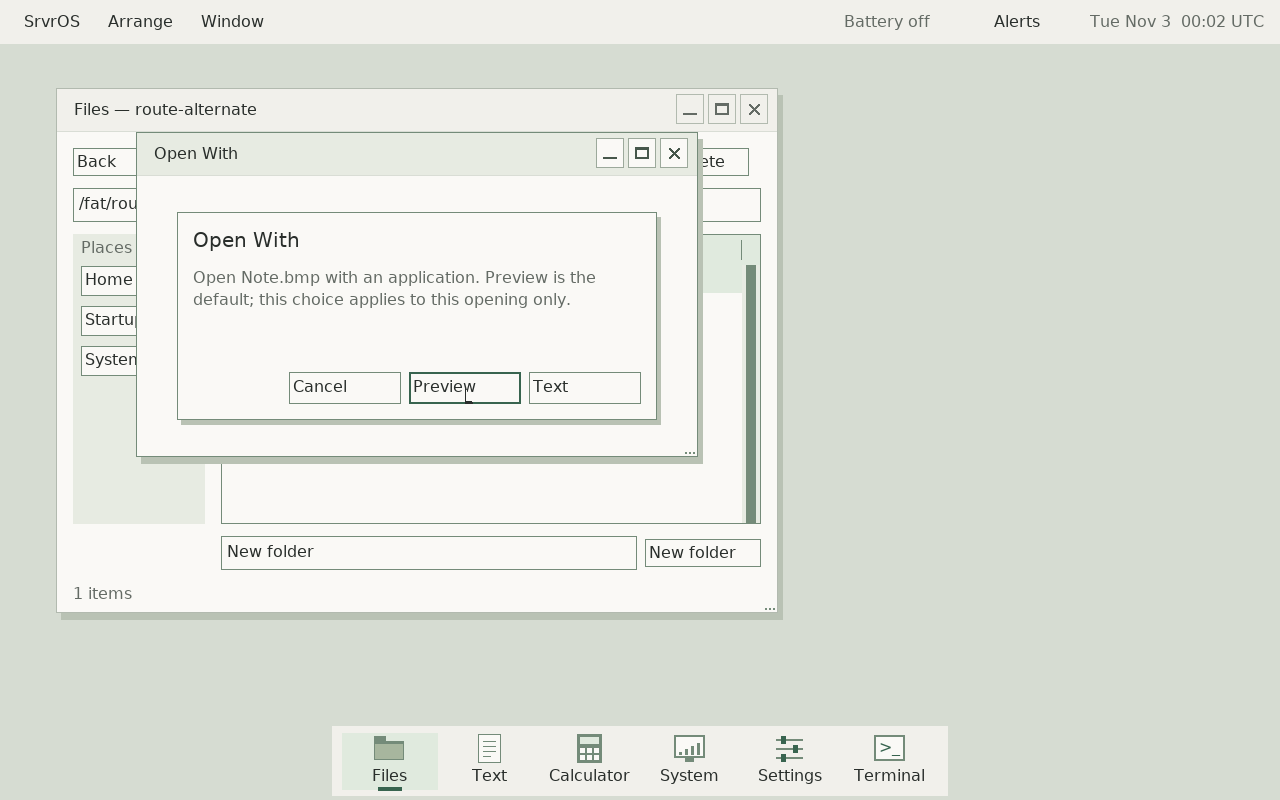
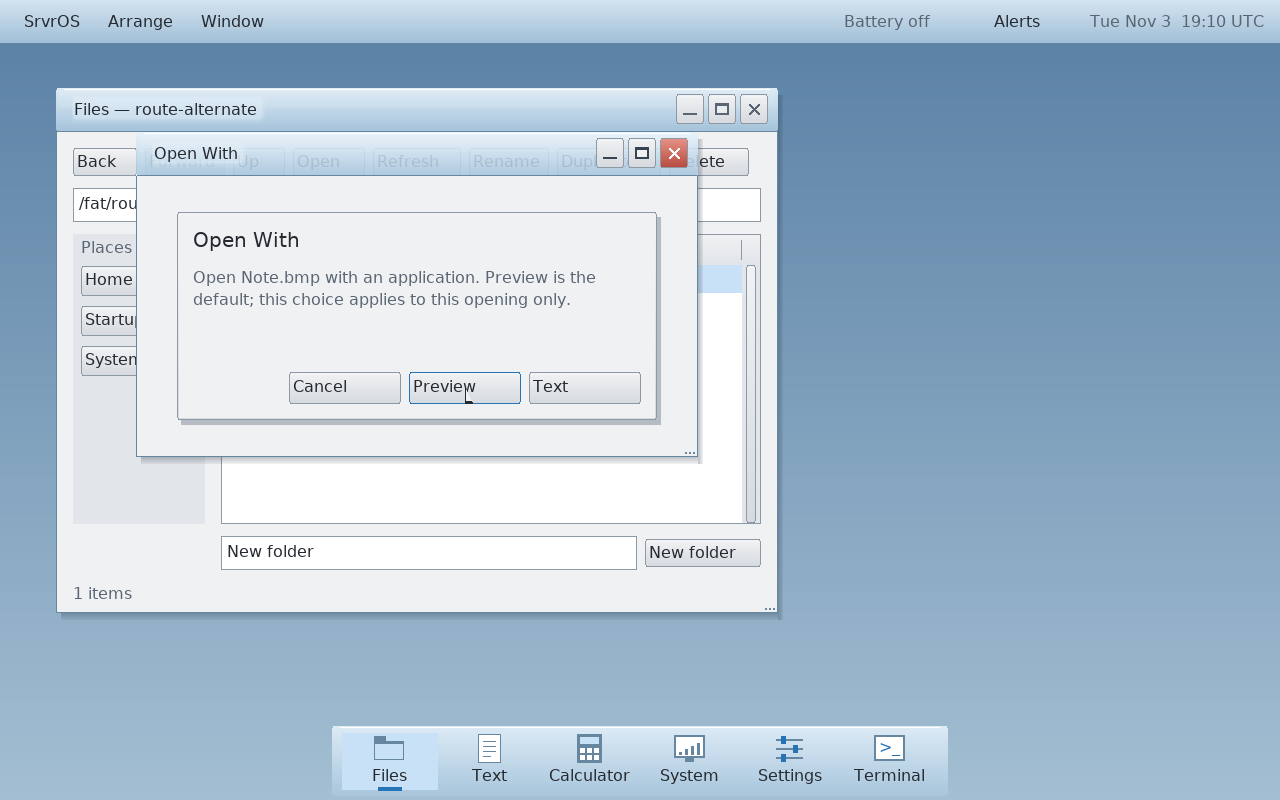
Record modular catch-up validation and refresh chooser screenshot

diff --git a/docs/machines/macbookair7-2.md b/docs/machines/macbookair7-2.md
@@ -1,24 +1,31 @@
 # MacBookAir7,2 / A1466
 
-Updated: 2026-11-02. State: **active reference machine; partial device acceptance**.
+Updated: 2026-11-03. State: **active reference machine; partial device acceptance**.
 
 ### Modular repository catch-up
 
-The user requested updating the local checkout for the submodule extraction.
-Incoming main is `e376669c`, with SrvrUI, SrvrApps and SrvrPorts pinned by the
-OS. PR278 remains open on the pre-extraction layout. Preserve its reviewed
-registry/Open With work by porting app edits into SrvrApps, publishing the app
-commit before its OS gitlink, and retaining root SDK/compositor/tests/docs edits.
-Do not rewrite extraction history or update upstream pins with --remote.
+Merged actual main `e376669c` into the existing device branch as `6880b1f6`.
+SrvrUI is pinned to `89fb6d9`, SrvrPorts to `0494ae2`, and SrvrApps to
+`ff6c8de`. All seven nested upstream pins remain unchanged. Recursive module
+initialization is complete; no dependency follows a remote branch implicitly.
 
-Existing seven upstream working trees were clean and deinitialized normally;
-Git metadata remains cached. Saved patches and archive/air-pre-modular-20261103
-retain the complete prior head. Reconcile path/build/theme conflicts, read each
-new module's applicable rules, initialize exact recursive pins, then run local
-build/core and relevant GUI tests. New main adds themes and QEMU/VirtIO work;
-those do not inherit Mac native acceptance. Installed acceptedc497/recovery9aa
-and staged pre-extractionb9 payload/evidence stay independent. No reboot is armed.
-Evidence/checkpoint: `build/air-modular-catchup-20261103/`.
+The pending registry/Open With changes were ported into extracted SrvrApps,
+preserving upstream themes, and published before the OS gitlink. Review the
+matched pair [OS PR278](https://github.com/PaulMDemers/SrvrOS/pull/278) and
+[Apps PR2](https://github.com/PaulMDemers/SrvrApps/pull/2). Old patches and
+`archive/air-pre-modular-20261103` preserve the pre-extraction branch.
+
+On clean source `6880b1f6`, full Linux core/docs/build, actual Open With clicks,
+embedded-dialog refusal fallback, and the twenty-window Files regression pass.
+The VM click detector now recognizes rounded themed buttons by geometry instead
+of old theme colors. The current chooser screenshot uses the updated theme.
+New themes and QEMU/VirtIO changes have no new native acceptance.
+
+Installed accepted `c497eb0cb48c1b01`, recovery `9aa8dbf6fbda8252`, and the
+pre-extraction staged `b9d0f6bd7897979d` remain preserved independently. The
+attended candidate is being refreshed for this matched modular tree; no reboot
+is armed. Evidence: `build/air-modular-catchup-20261103/`, backed up outside
+`build`. Historical source-specific results below remain historical.
 
 ### Application registry and Open With: ready for attended trial
 
